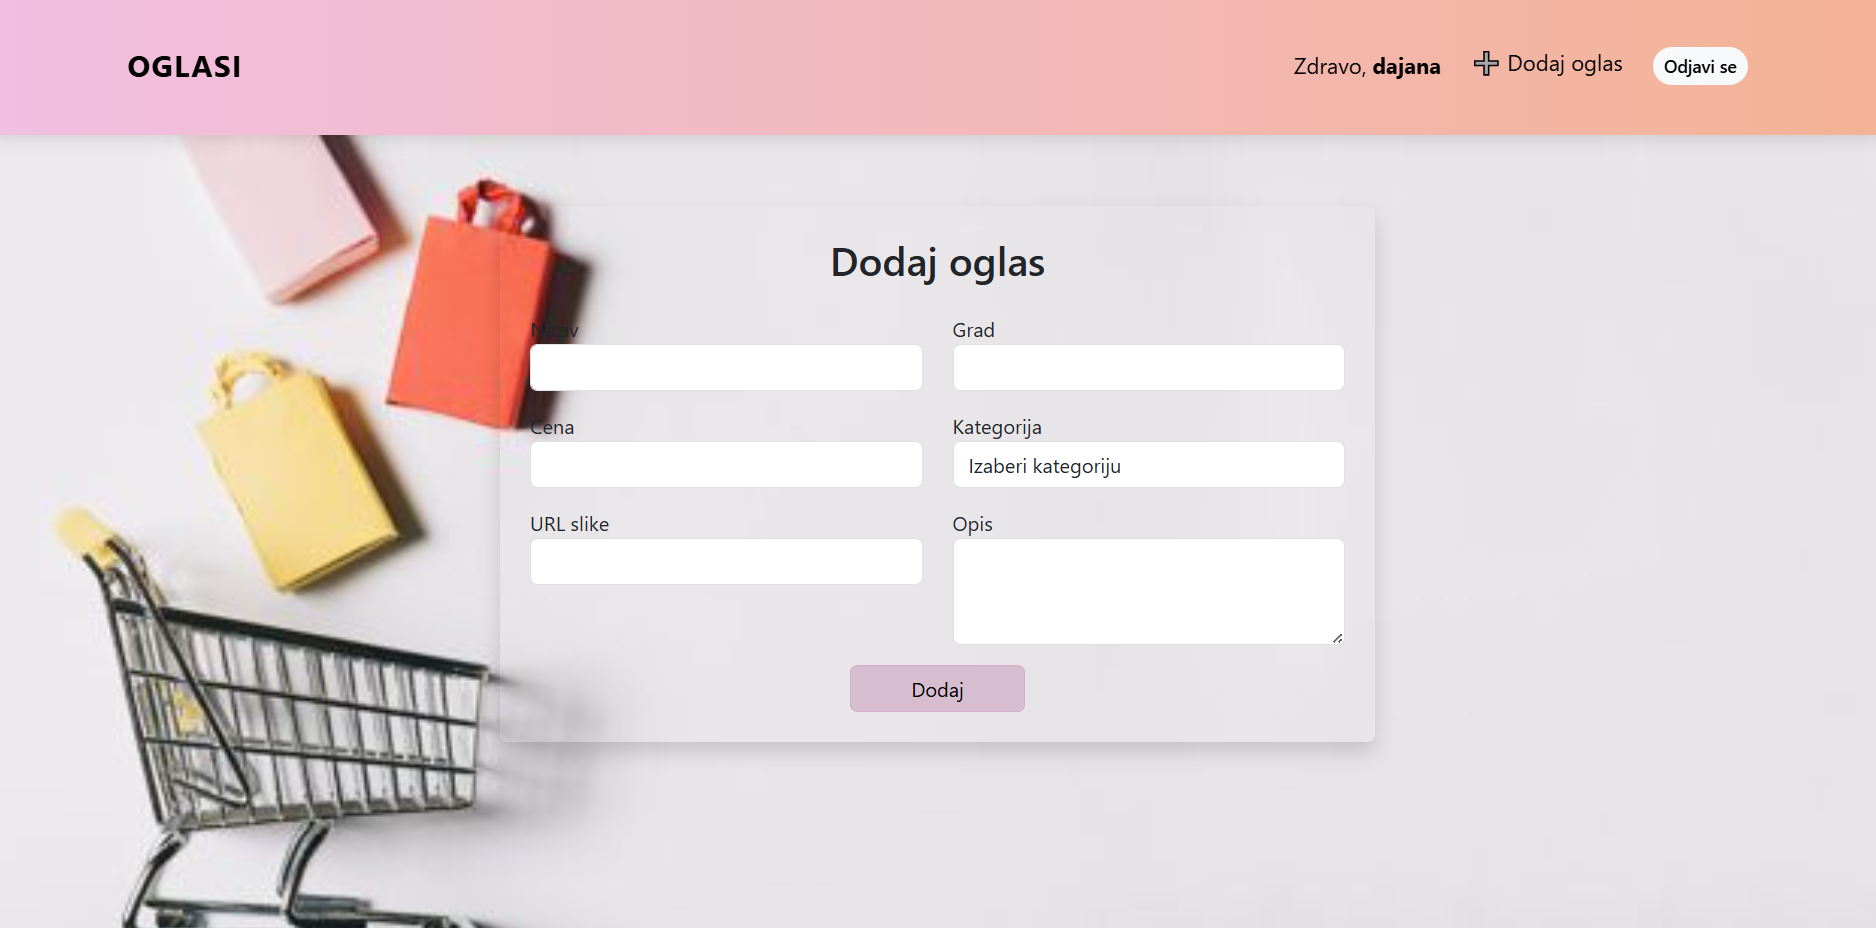
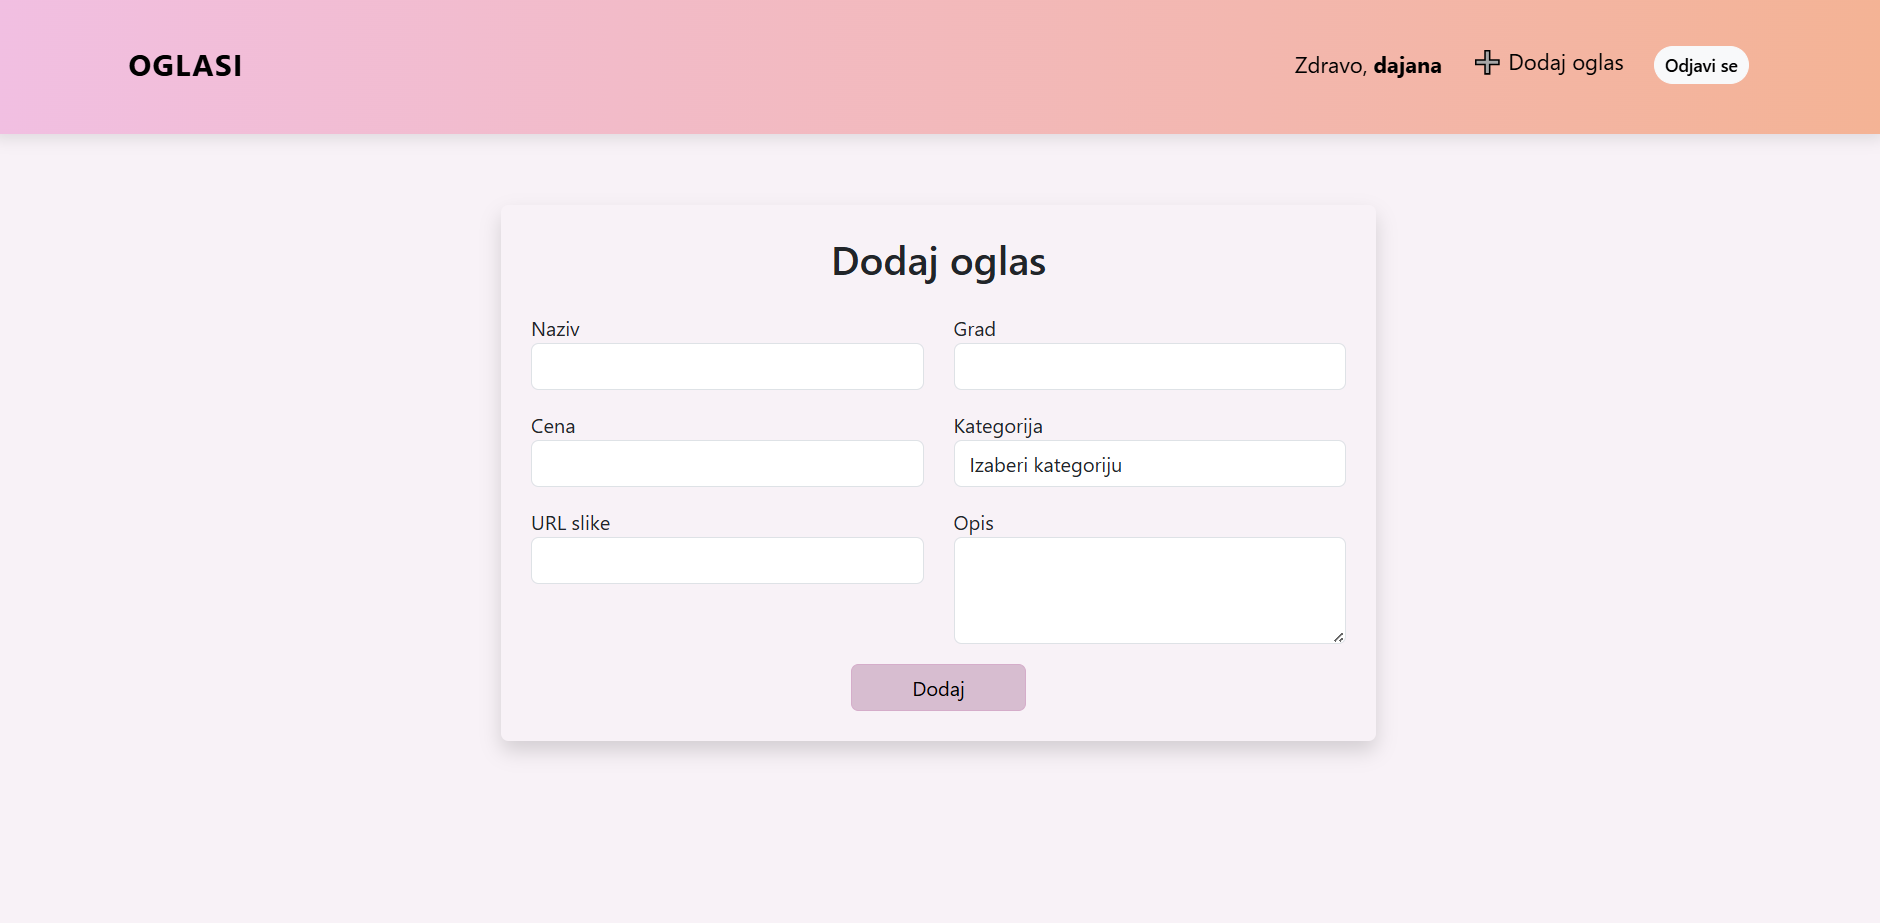
Izmena

diff --git a/Oglasi/frontend/frontend/src/pages/EditAdvertisementPage.jsx b/Oglasi/frontend/frontend/src/pages/EditAdvertisementPage.jsx
@@ -106,7 +106,7 @@ function EditAdvertisementPage() {
             {error && <div className="alert alert-danger mt-3">{error}</div>}
 
             <div className="col-12 mt-3 text-center">
-              <button type="submit" className="btn btn-primary px-5">Sačuvaj izmene</button>
+              <button type="submit" className="btn btn-pink px-5">Sačuvaj izmene</button>
             </div>
           </div>
         </form>

diff --git a/Oglasi/frontend/frontend/src/App.js b/Oglasi/frontend/frontend/src/App.js
@@ -35,7 +35,7 @@ function App() {
   return (
   <div
       style={{
-        backgroundImage: "url('/images/pozadina.jpg')",
+        backgroundColor: "#f8f2f7ff",
         backgroundSize: 'cover',
         backgroundRepeat: 'no-repeat',
         backgroundPosition: 'center',
